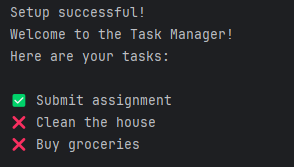
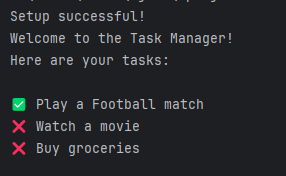
update task list with new activities

diff --git a/src/main/kotlin/Main.kt b/src/main/kotlin/Main.kt
@@ -6,8 +6,8 @@ fun main() {
     println()
 
     val tasks = mutableListOf(
-        Task("Submit assignment",    isDone = true),
-        Task("Clean the house",      isDone = false),
+        Task("Play a Football match",    isDone = true),
+        Task("Watch a movie",      isDone = false),
         Task("Buy groceries",        isDone = false)
     )
 
